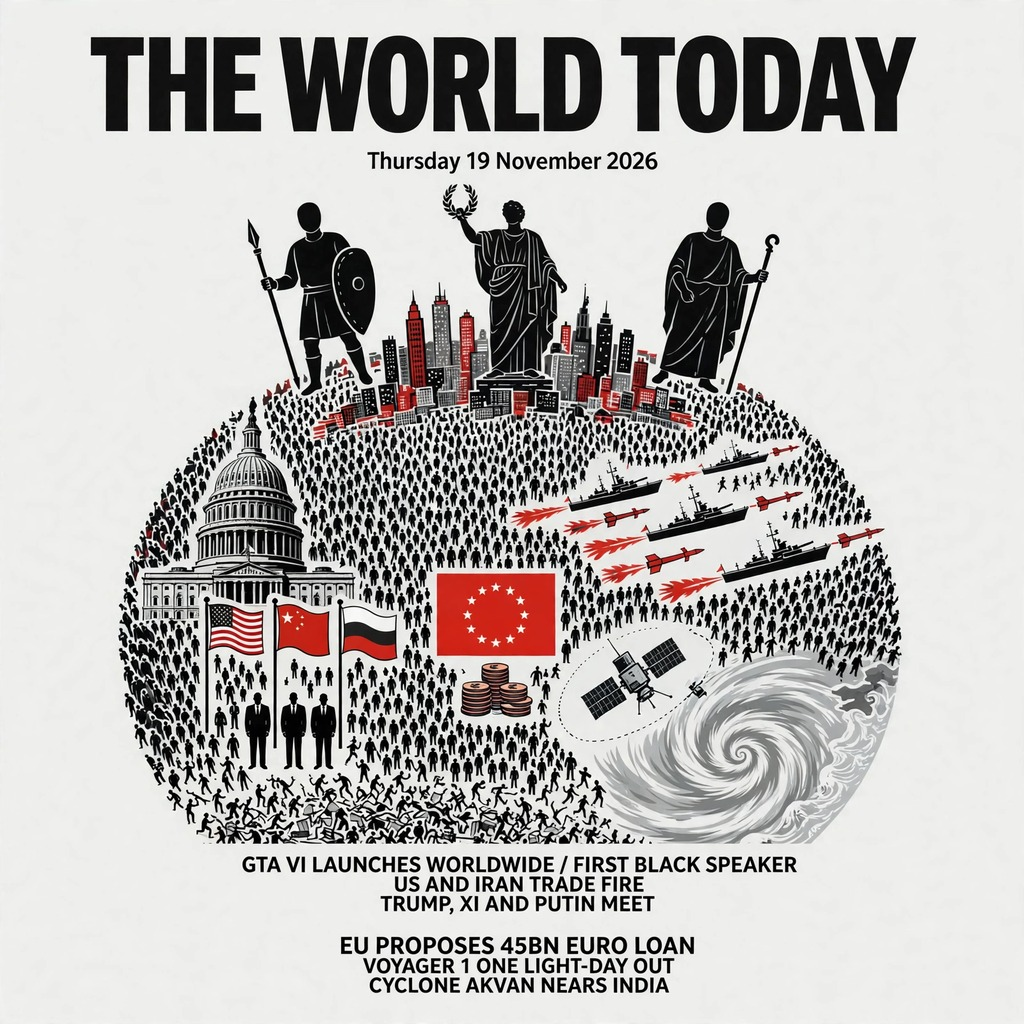
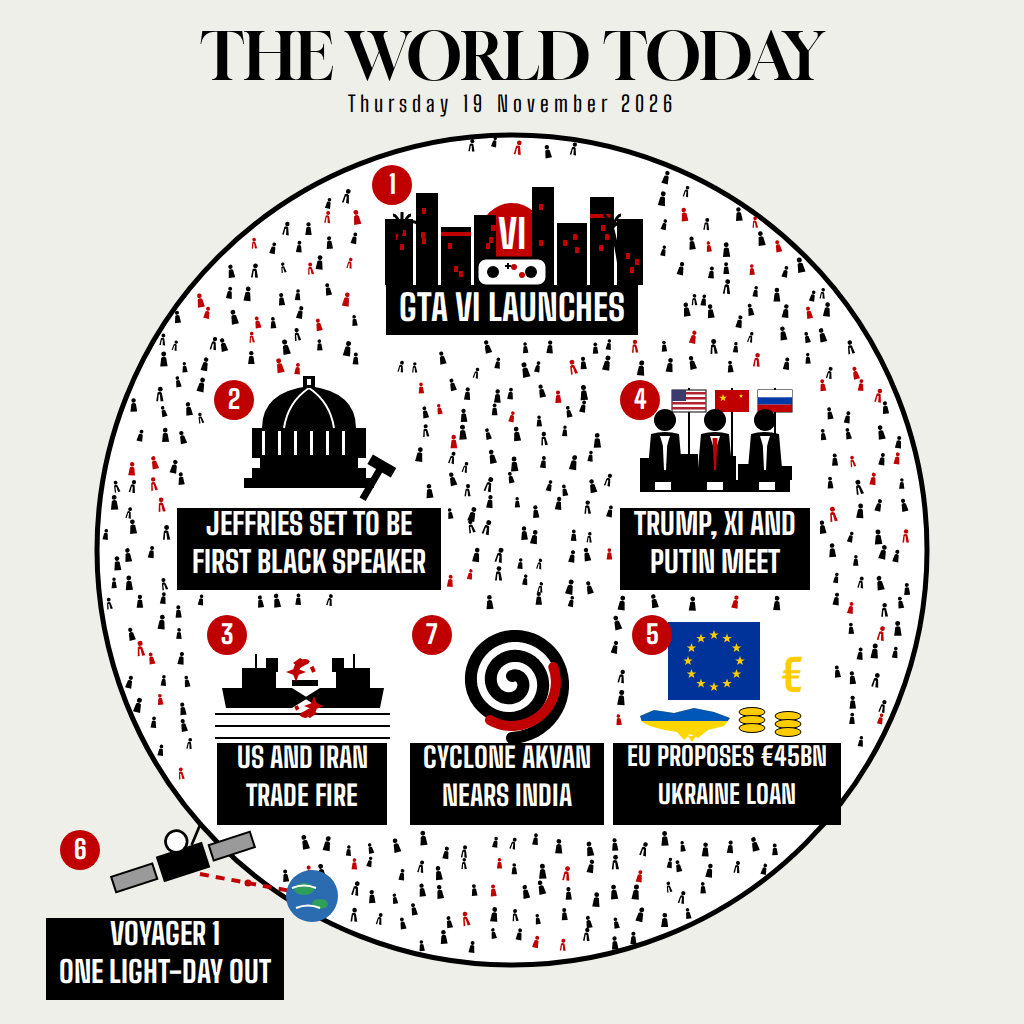
news-image-20261119: vector rebuild — 7 hero vignettes, flat cyclone spiral, corrected flags
Rebuilds the cover as vector SVG rendered to PNG 1024x1024 (exact
typeset text, flat colours, no gradients). Fixes the EGM review of
f19fdd4: CB1 cyclone redrawn as a single flat black spiral + red arc
(no grey ramp); CM1 GTA VI gets a real emblem (neon sunset, palms,
controller, VI mark); CM2 Russia white-BLUE-red, EU blue + gold stars;
CM3 every story has its own icon + numbered medallion + label, readable
at 300px; CM4 Capitol and Voyager flattened, stray fragment removed;
m1-m7 hedged wording, one label per story, no stray smears, Ukraine
named in its own label. Design philosophy in design-philosophy.md.

diff --git a/README.md b/README.md
@@ -8,43 +8,83 @@ Entry for make.fun competition `news-image-20261119`: sum up 19 November's
 world news in one image.
 
 `main.py` (Python 3.13, stdlib only, no network) copies the bundled
-cover artwork `entry.png` (1024×1024 JPEG, 309,743 bytes — under the
+cover artwork `entry.png` (1024×1024 PNG, 188,722 bytes — under the
 1 MiB limit) to `<MAKEFUN_OUTPUT_DIR>/entry.png` (`/output` by default).
-Before copying it checks the source image's magic bytes (JPEG or PNG)
-and prints a confirmation line with the byte count. The copy is
-byte-identical on every run, verified afterwards by file size and
-SHA-256 digest.
+Before copying it checks the source image's magic bytes (JPEG or PNG),
+validates the dimensions are exactly 1024×1024, and prints a confirmation
+line with the byte count. The copy is byte-identical on every run, verified
+afterwards by file size and SHA-256 digest.
 
 ## What the cover shows
 
-The design follows The Economist's *The World Ahead 2027* cover
-(17 November 2026, art by Cleon Peterson): one crowded round globe,
-packed edge-to-edge with tiny flat silhouettes, in a strict
-red/black/white palette — no gradients, no photographic shading.
-Faceless black-figure silhouettes, forces rather than people: the
-powerful stand on top of the globe, small displaced figures crowd
-the bottom. Every element stands for one of the day's stories,
-named in the cover lines below the globe.
+The design borrows the grammar of The Economist's *The World Ahead 2027*
+cover (17 November 2026, art by Cleon Peterson) — one crowded round globe,
+packed with tiny flat silhouettes, vertical hierarchy, forces rather than
+people — but the composition is its own: seven numbered hero vignettes,
+each at least 170×170 px, each carrying one story with one unmistakable
+icon, a numbered red medallion (1–7), and a short label in condensed bold
+type. No story depends on the crowd; the crowd is filler between the
+vignettes. The wording is hedged where the news is prospective:
+"SET TO BE", "PROPOSES", "NEARS".
+
+The artwork is built as vector SVG by code and rendered to PNG at exactly
+1024×1024 — every word is real typeset text, never rendered by an image
+model. Palette: flat red, black, white and light grey, with exactly three
+exceptions where flag correctness wins over palette purity — Russia's
+white-blue-red, the EU's blue field with gold stars, and Ukraine's
+blue-yellow. There are no gradients anywhere: the cyclone is a single
+flat black spiral stroke with one flat red arc, verified by palette count
+(the cyclone region is 93% exactly white, black and red pixels; the rest
+are anti-aliasing edge pixels, not shading). Full design philosophy:
+`design-philosophy.md` in the build notes.
 
 Researched from the day's reporting (19 November 2026):
 
 1. **GTA VI launches worldwide** — after a 13-year wait, the game is out
-   and gamers enter Vice City; pre-order records broken.
+   and gamers enter Vice City; pre-order records broken. Shown as a neon
+   sunset over a Vice City skyline, palms, a game controller, and a "VI"
+   mark — the hero vignette at the top of the globe.
 2. **Jeffries set to be first Black Speaker** — Democrats nominate Hakeem
-   Jeffries for Speaker of the US House of Representatives.
+   Jeffries for Speaker of the US House of Representatives. Shown as a
+   flat black Capitol dome with white incised lines, gavel and rostrum.
 3. **US and Iran trade fire again** — Iran widens its attacks on US sites
    in the Gulf, striking Bahrain and Kuwait; the US hit a missile site on
-   Qeshm Island.
+   Qeshm Island. Shown as two warships with tracer arcs and muzzle
+   flashes in both directions — an exchange, not a one-sided barrage.
 4. **Trump, Xi and Putin meet in Shenzhen** — the three leaders sit down
-   together for the first time, at the APEC summit.
+   together for the first time, at the APEC summit. Shown as three large
+   suited figures at a table before a skyline, under the US, Chinese and
+   Russian flags (drawn in their correct colours).
 5. **EU proposes €45bn Ukraine loan** — to be repaid only once Russia pays
-   reparations; otherwise frozen Russian assets may be used.
+   reparations; otherwise frozen Russian assets may be used. Shown as a
+   ring of 12 gold stars on a blue field, a gold € sign, an arrow into a
+   blue-and-yellow Ukraine outline, and coin stacks.
 6. **Voyager 1: one light-day from Earth** — the first human-made object
    to reach the mark, 16 billion miles out; a radio signal now takes a
-   full day each way.
+   full day each way. Shown as a flat dish-and-boom spacecraft outside
+   the globe in the void, a beam of light to a small Earth, and a
+   "1 LIGHT-DAY" distance marker.
 7. **Cyclone Akvan nears India's east coast** — a severe cyclonic storm in
    the Bay of Bengal; red alerts for coastal Andhra Pradesh and Odisha
    on 19–20 November, landfall expected around noon on 20 November.
+   Shown as a flat black spiral with a red arc — no gradient, no
+   feathering.
+
+## Verification
+
+- PNG exactly 1024×1024, 188,722 bytes (limit 1,048,576).
+- Palette: 3,412 distinct colours in total (flat art plus anti-aliasing
+  edge pixels); dominant colours are the paper (239,239,233), white,
+  black and red, plus the three flag colours. Cyclone region: 93.3% of
+  pixels are exactly white, black or red — no continuous grey ramp.
+- Downscale check: all 7 stories still identifiable from symbols +
+  labels at 512×512 and at 300×300 (labels stay legible; medallions
+  1–7 stay visible).
+- `python3 entry/main.py` runs and the output is byte-identical to the
+  bundled image (SHA-256
[1 lines of base64/hex data omitted]
+- Every on-image text line spell-checked by eye at full size; date
+  "Thursday 19 November 2026" is correct.
 
 ---
 

diff --git a/design-philosophy.md b/design-philosophy.md
@@ -1,0 +1,79 @@
+# Design Philosophy — "Flat Meridian"
+
+## The movement
+
+**Flat Meridian** is a poster language for a single crowded day: one round
+world, drawn as if cut from paper, in which every event is a flat shape and
+every shape earns its place by being recognisable at a glance. The meridian
+is the idea — a globe read top to bottom like a map of power: the powerful
+stand on its ridge, the many crowd its middle, the consequences gather at
+its base. Nothing is shaded, nothing is feathered, nothing pretends to be a
+photograph. The work is meticulously crafted, the product of deep expertise
+and painstaking attention: every silhouette is placed with the precision of
+a master craftsman, every edge cut clean, every alignment the result of
+countless refinements, so that the finished cover looks labored over for
+hours by someone at the absolute top of their field.
+
+## Space and form
+
+Form is silhouette only — flat black figures, flat red signals, flat fields
+of white and grey, arranged on a single white disc against a quiet ground.
+Space is dense but never cluttered: seven large hero emblems hold the disc
+like seven anchors, and the gaps between them are filled with a patient
+accumulation of tiny crowd figures, a repeated mark that builds meaning
+through sheer number and rewards sustained viewing. The disc is the world;
+the margins are silence. The masthead crowns the top margin in monumental
+serif type, the date sits beneath it, and nothing else competes with them.
+
+## Color and material
+
+Color is a strict discipline, not a decoration. Black is the ground and the
+people; red is alarm, power, and the single most important signal on the
+page; white and light grey are space and silence. Only where correctness
+demands it does the palette admit a foreign colour — the blue of a flag, the
+gold of a star, the blue-and-yellow of a country — and then only inside that
+one emblem, never leaking into the rest of the disc. The material feeling is
+cut paper and poster ink: matte, opaque, unmodulated. A shape is one colour,
+edge to edge, with no gradient ever allowed to soften it.
+
+## Scale and rhythm
+
+Scale does the storytelling. The largest figures are the most powerful; the
+smallest are the many. Each hero emblem is large enough to be read from
+across a room — no story may depend on a figure smaller than a thumbnail —
+while the crowd provides the rhythm, a visual static that makes the heroes
+louder by contrast. Labels are set in condensed bold capitals, large enough
+to survive being shrunk to a third of their size, and each one is numbered:
+a red medallion, white numeral, a short line of words. The numbering is not
+decoration; it is the rhythm section of the design, a steady 1–7 beat that
+lets the eye walk the globe in order.
+
+## Composition and balance
+
+The composition is a circle with a hierarchy. The hero story crowns the top
+of the disc; the summit of power stands at its upper right; the remaining
+stories ring the middle and the base. Balance is achieved by weight, not by
+symmetry: a heavy skyline at the top is answered by a heavy spiral at the
+bottom, a dark warship on the left by a dark flag on the right. Nothing
+falls off the page and nothing overlaps: every emblem, every label, every
+medallion has breathing room and clear separation, and the whole is checked
+again after it is built — refined, not added to — until it is pristine, a
+masterpiece of craftsmanship fit to be displayed.
+
+## The text question, resolved
+
+This philosophy insists that information lives in design, not in paragraphs
+— and this cover honours that by making its only text visual architecture.
+Each story is allowed exactly one number and one short line, typeset as part
+of the composition: the medallions and labels ARE the design language, not
+annotations pasted onto it. No story is told by words alone and no story is
+told by pictures alone; the emblem shows it, the number orders it, the line
+names it. That is the whole text of the piece, and it is enough.
+
+## Subtle reference
+
+The soul of the cover is the year's most imitated magazine cover — a round
+world of flat silhouettes — quoted the way a jazz musician quotes a song:
+the grammar is borrowed (crowded globe, flat figures, vertical hierarchy),
+the composition is our own. Someone familiar with the reference feels it at
+once; everyone else simply sees a masterful, densely meaningful poster.
